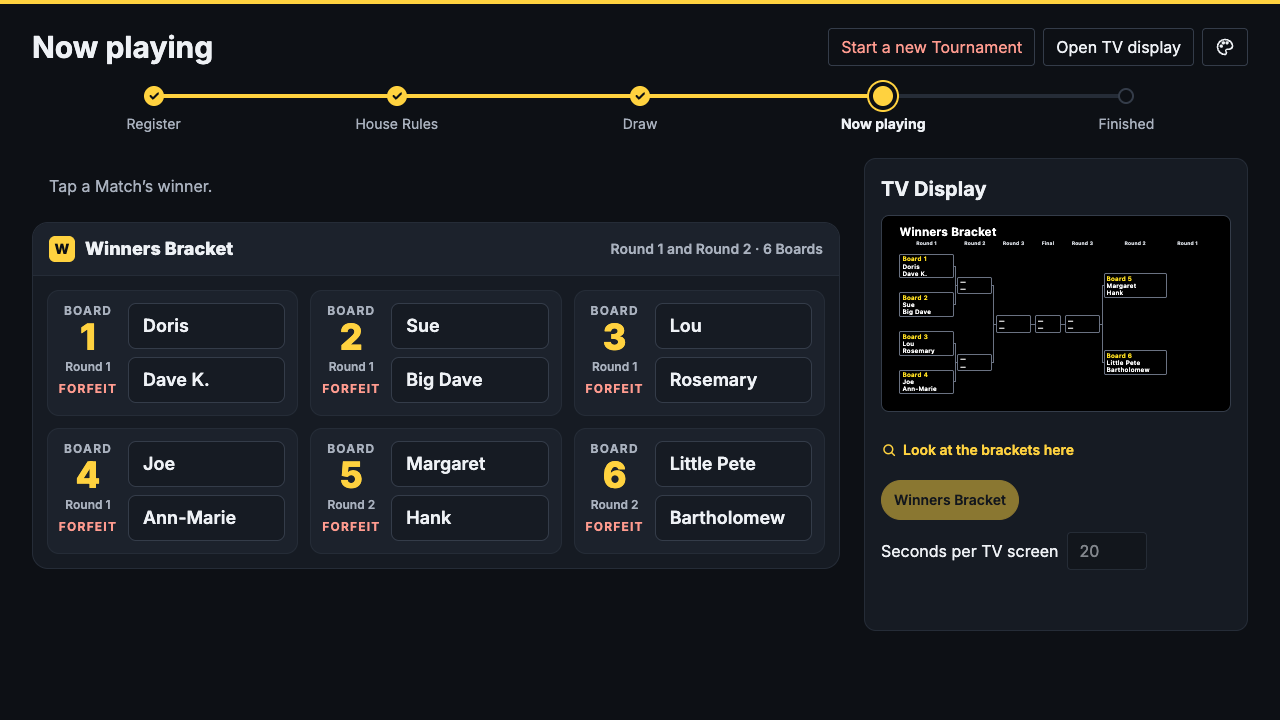
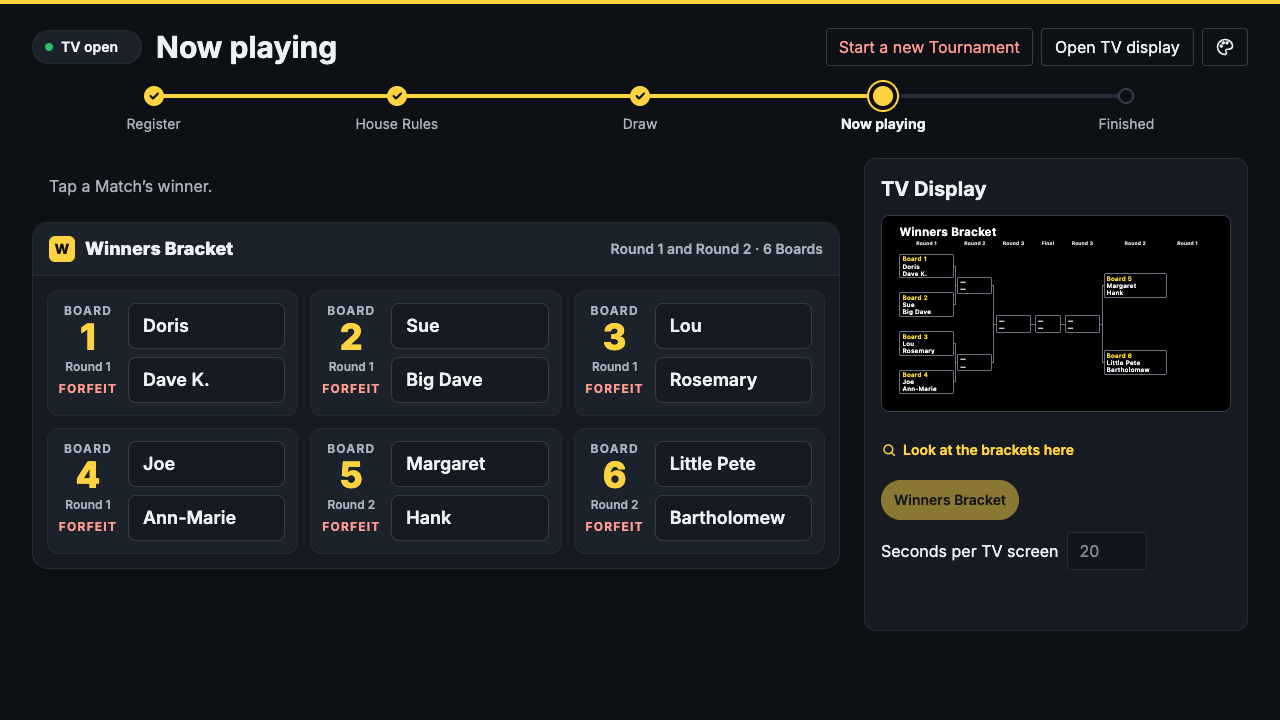
Shoot the Organizer with the TV closed; retake the README's Organizer shot
TV_CLOSED=1 closes the TV window after registration and shoots the
Organizer once its badge reads TV closed, so a PR can show both states.
The README's Now playing shot now shows the TV open badge.

Changed region(s): [[0.0, 0.0306, 0.2812, 0.0917], [0.6562, 0.0611, 0.9375, 0.0917]]

diff --git a/screens/screens.spec.ts b/screens/screens.spec.ts
@@ -35,8 +35,10 @@ const isShownWithin = async (element: Locator, timeout: number) => {
  *   ... SCHEME=dark                         with the laptop set dark (or light), which the Organizer screen's
  *                                           Same as laptop Theme follows
  *   ... THEME_MENU=1                        and the Theme menu open at registration
+ *   ... TV_CLOSED=1                         and, after registration, the TV window closed: the organizer
+ *                                           alone, its badge reading TV closed. Stops there.
  * Writes test-results/screens/{organizer,tv}-{registration,theme-menu,house-rules-two-shown,house-rules,draw,swap-picked,swapped,started,results,losers-bracket,champion,
- * peek,peek-losers,forfeit-dialog,forfeit}.png: the organizer at
+ * peek,peek-losers,forfeit-dialog,forfeit}.png and test-results/screens/organizer-tv-closed.png: the organizer at
  * 1280×720, the TV at 1920×1080.
  */
 const players = process.env.PLAYERS ?? '26';
@@ -74,6 +76,13 @@ test('screens', async ({ context, page: organizer }) => {
 	// The Fun Fact fades in at the start of its 12 seconds, so Tonight's Players is shot once it is fully shown.
 	await expect(tv.getByText(/^Fun fact: /)).toHaveCSS('opacity', '1');
 	await shoot('registration');
+	if (process.env.TV_CLOSED) {
+		await tv.close();
+		// The badge shows TV closed a few seconds after the TV's last heartbeat.
+		await expect(organizer.getByText('TV closed')).toBeVisible({ timeout: 10_000 });
+		await organizer.screenshot({ path: 'test-results/screens/organizer-tv-closed.png' });
+		return;
+	}
 	if (process.env.THEME_MENU) {
 		await organizer.getByRole('button', { name: 'Theme' }).click();
 		await shoot('theme-menu');
